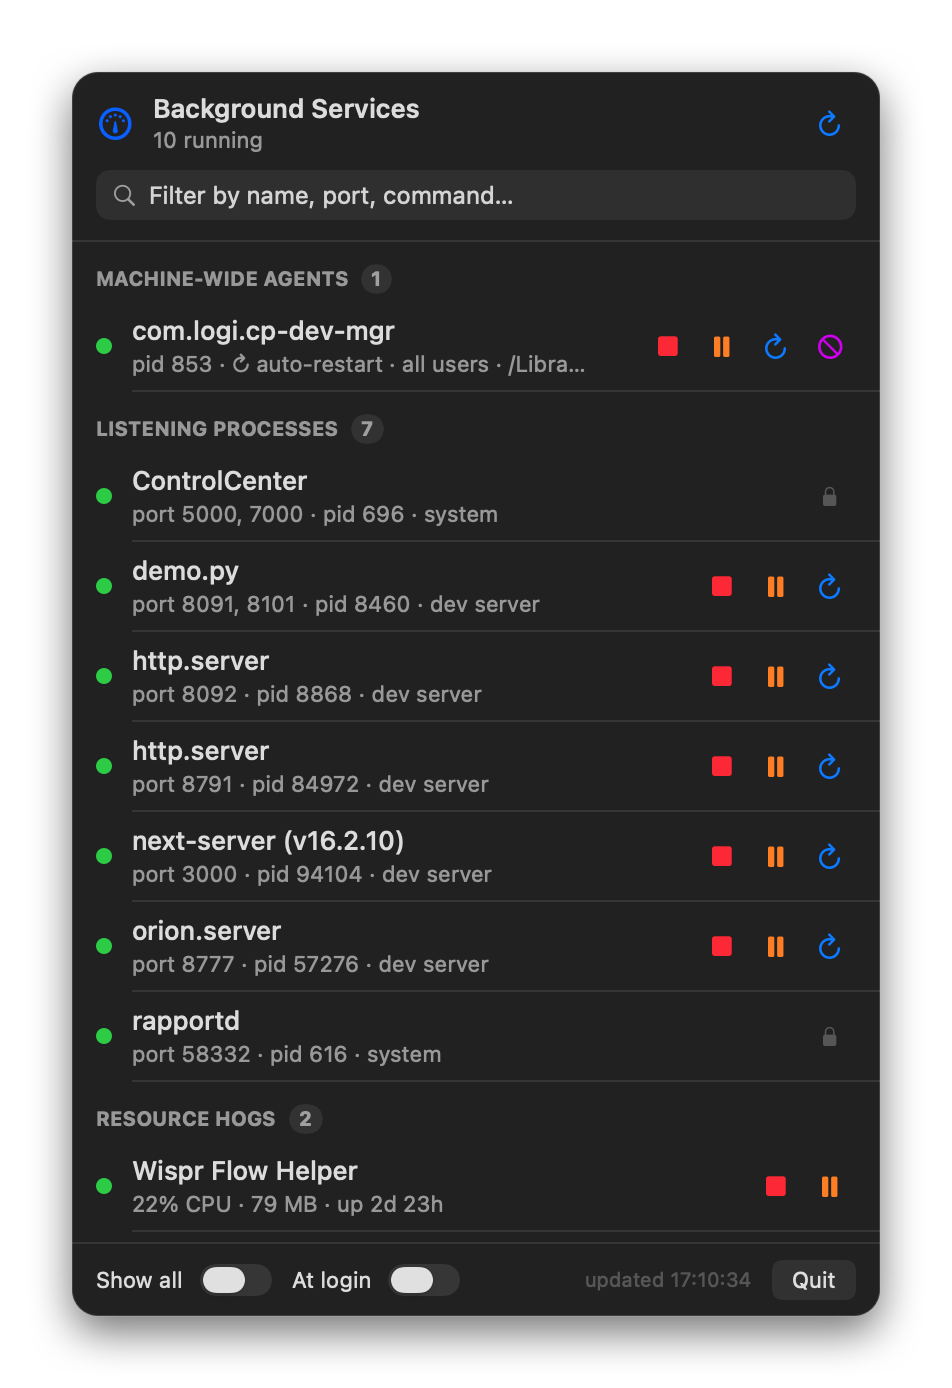
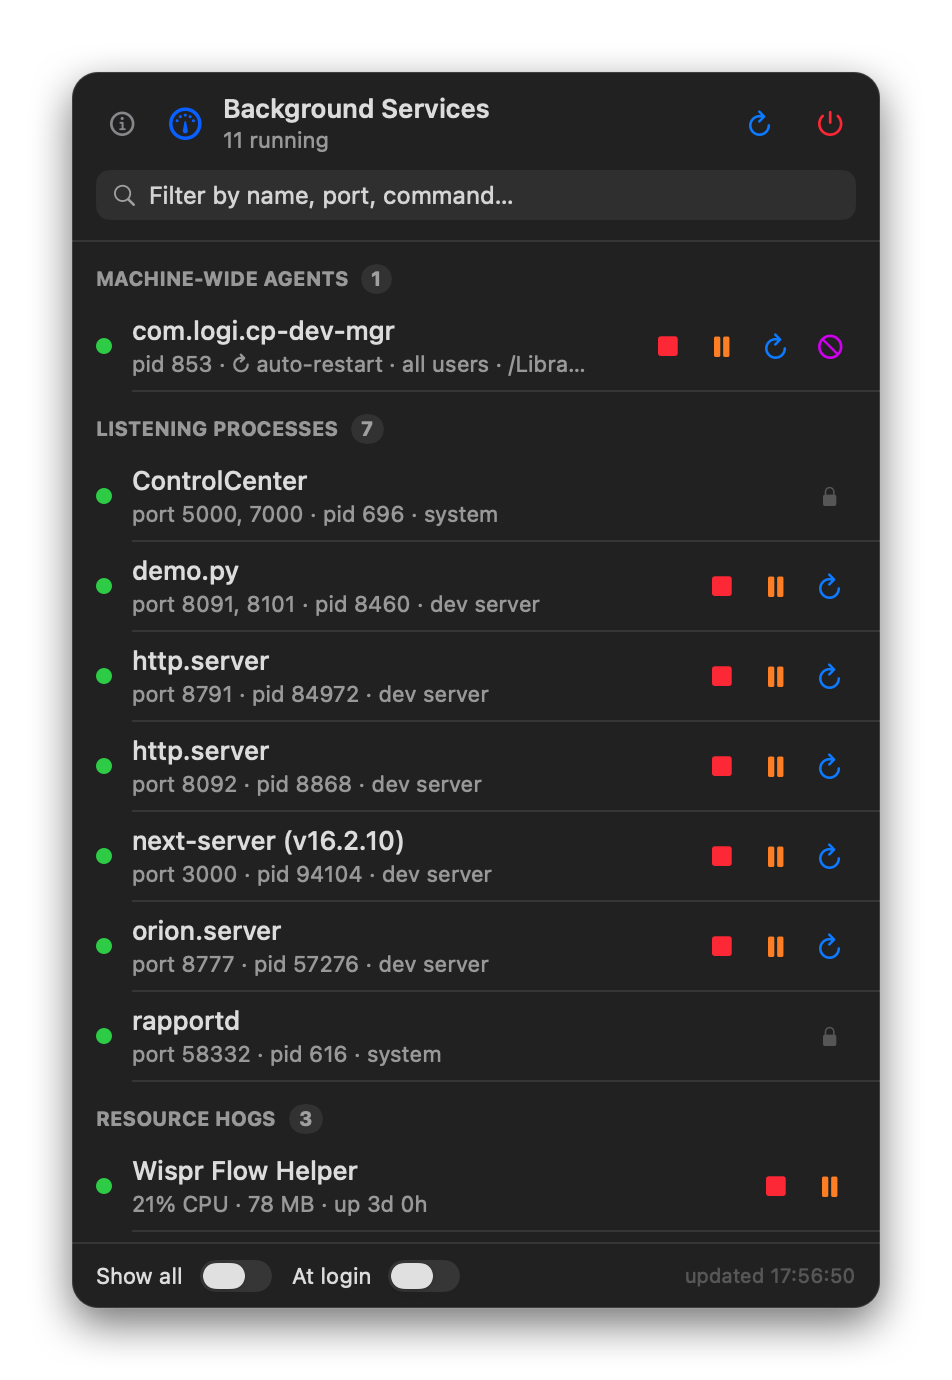
release: v1.2.1 — power button replaces footer Quit

diff --git a/Sources/Views.swift b/Sources/Views.swift
@@ -67,6 +67,7 @@ struct RootView: View {
                 Spacer()
                 if store.isLoading { ProgressView().controlSize(.small).scaleEffect(0.8) }
                 IconButton(system: "arrow.clockwise", color: .blue, help: "Rescan") { store.refresh() }
+                IconButton(system: "power", color: .red, help: "Quit bgviewer") { NSApp.terminate(nil) }
             }
             HStack(spacing: 6) {
                 Image(systemName: "magnifyingglass")
@@ -178,8 +179,6 @@ struct RootView: View {
                 Text(footerInfo)
                     .font(.system(size: 10)).foregroundStyle(.tertiary)
             }
-            Button("Quit") { NSApp.terminate(nil) }
-                .controlSize(.small)
         }
         .padding(.horizontal, 12)
         .padding(.vertical, 8)

diff --git a/CHANGELOG.md b/CHANGELOG.md
@@ -1,5 +1,9 @@
 # Changelog
 
+## 1.2.1 — 2026-07-14
+
+- Quit is now a power button in the header (top right); footer decluttered
+
 ## 1.2.0 — 2026-07-14
 
 - In-app help: an ⓘ button in the header explains every section and button,